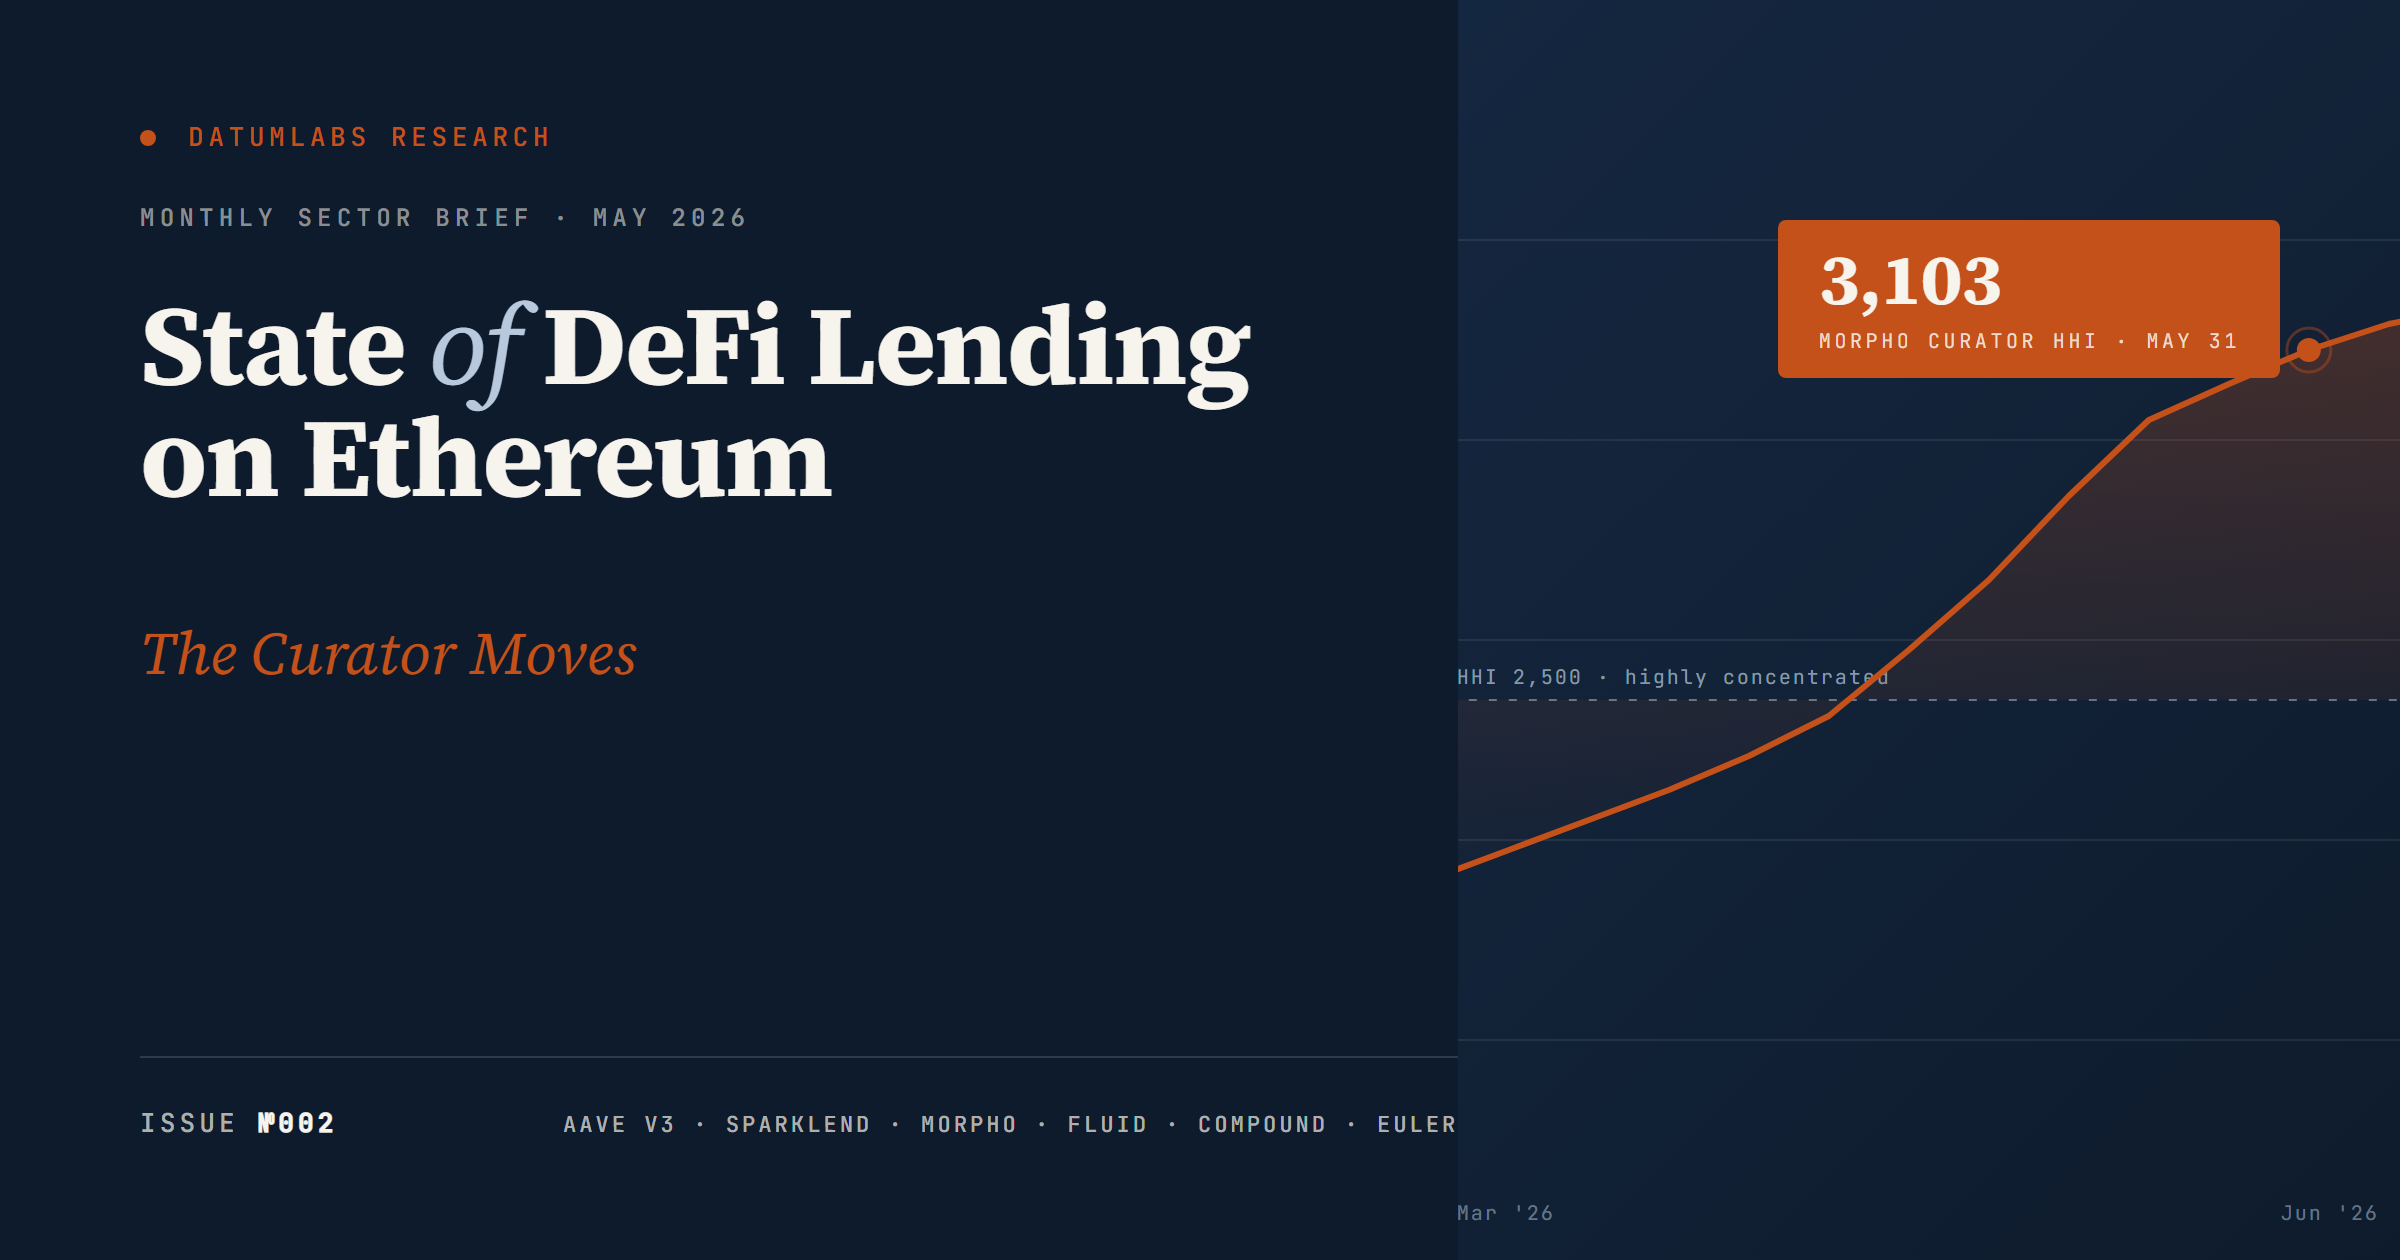
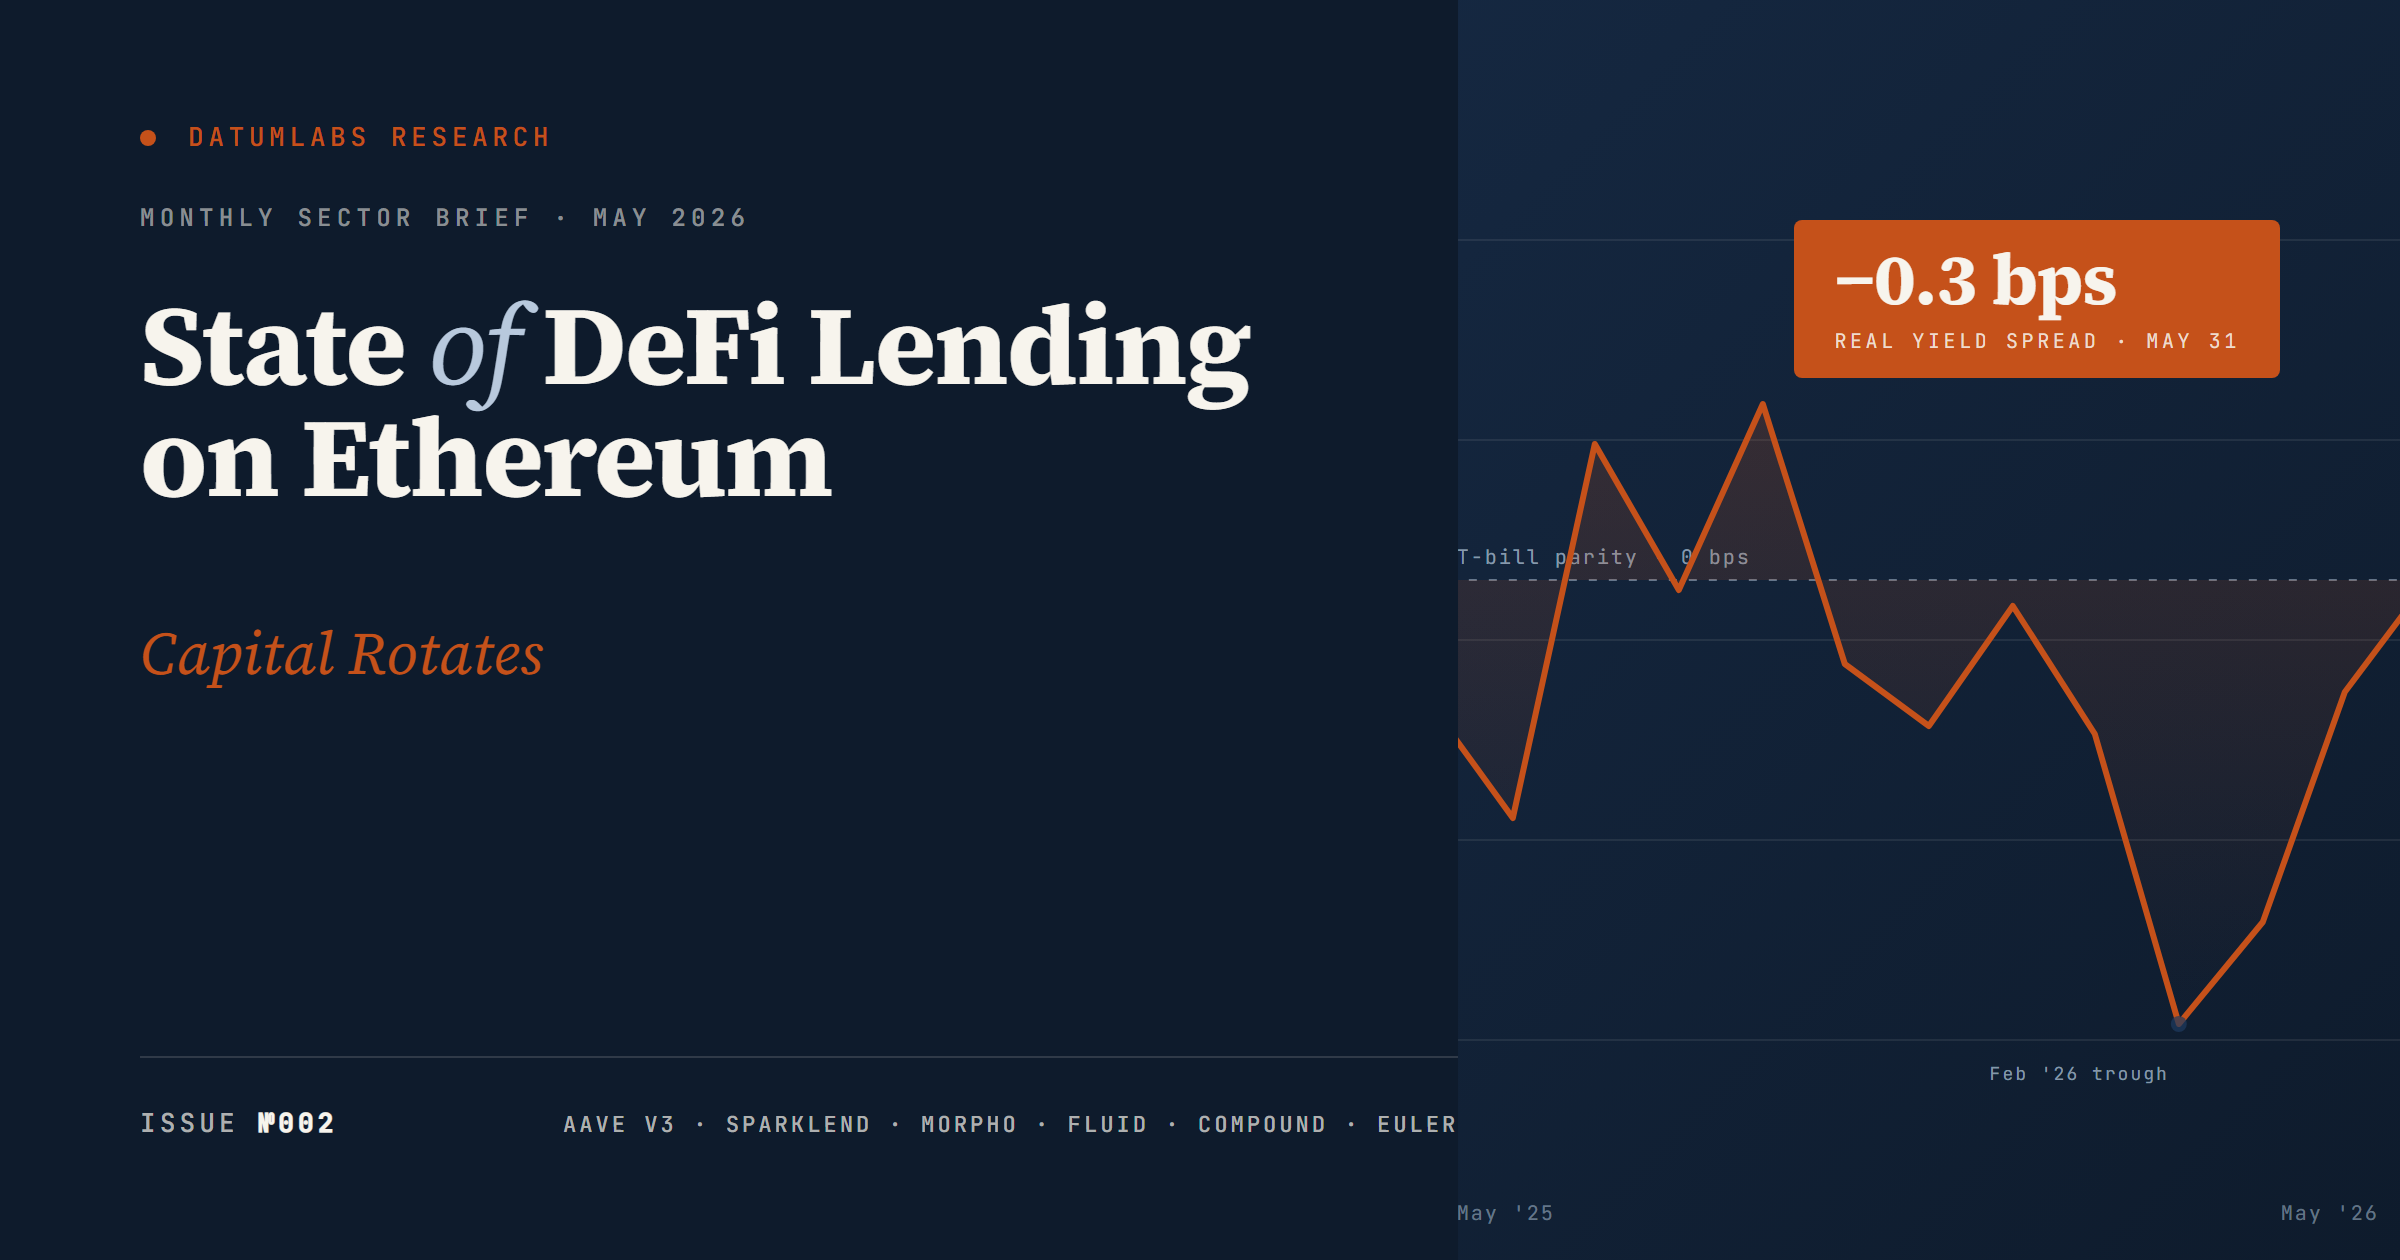
chore(report-002): re-render cover PNGs from Capital Rotates templates
Issue 002's five cover HTML templates (portrait, social, twitter,
linkedin, medium) were updated to the Capital Rotates framing earlier
in the round but the rendered PNGs in public/reports/ still carried
the prior wording. Re-runs npm run render-covers and commits the five
PNG outputs.

All five now read:
  Theme  · Capital Rotates
  Tagline · $1.6B LRT exit / $818M BTC inflow / $759M Morpho /
            stable parity for the first time in eight months

Also extends scripts/screenshot-issue-002-charts.ts to capture the
hero block and §02 Executive Summary lead in the same pre-publication
sanity-check pass.

diff --git a/content/reports/cover_2026-05-may_social.html b/content/reports/cover_2026-05-may_social.html
@@ -189,7 +189,7 @@
       </div>
       <div class="eyebrow">Monthly Sector Brief · May 2026</div>
       <h1 class="title">State <span class="of">of</span> DeFi Lending<br/>on Ethereum</h1>
-      <div class="subtitle">The Curator Moves</div>
+      <div class="subtitle">Capital Rotates</div>
     </div>
 
     <div class="bottom">
@@ -216,36 +216,36 @@
         <line x1="0" y1="520" x2="500" y2="520"/>
       </g>
 
-      <!-- HHI 2,500 threshold line -->
-      <line x1="0" y1="350" x2="500" y2="350" stroke="#B8C9DD" stroke-width="1" stroke-dasharray="4 6" opacity="0.5"/>
-      <text x="14" y="342" font-family="JetBrains Mono, monospace" font-size="10" fill="#B8C9DD" letter-spacing="1" opacity="0.7">HHI 2,500 · highly concentrated</text>
+      <!-- T-bill parity line at RYS = 0 (y ≈ 290 on a y-axis spanning −180 bps top of pos to +50 bps over the chart band) -->
+      <line x1="0" y1="290" x2="500" y2="290" stroke="#B8C9DD" stroke-width="1" stroke-dasharray="4 6" opacity="0.5"/>
+      <text x="14" y="282" font-family="JetBrains Mono, monospace" font-size="10" fill="#B8C9DD" letter-spacing="1" opacity="0.7">T-bill parity · 0 bps</text>
 
-      <!-- HHI trajectory: starting around 1,800 (pre-window) and rising past threshold through Mar 2,700 / Apr 3,026 / May 3,103 / Jun 3,290 -->
-      <!-- y mapping: 1,500 -> y=480; 3,500 -> y=120. So 1 HHI unit = -0.18 y -->
-      <!-- 1,800 -> y = 480 - (1800-1500)*0.18 = 480 - 54 = 426 -->
-      <!-- 2,500 -> y = 480 - 180 = 300 (close to threshold line at 350; ok for visual purposes) -->
-      <!-- 2,700 -> y = 480 - 216 = 264 -->
-      <!-- 3,026 -> y = 480 - 274.7 = 205.3 -->
-      <!-- 3,103 -> y = 480 - 288.5 = 191.5 -->
-      <!-- 3,290 -> y = 480 - 322.2 = 157.8 -->
-      <path d="M 0 440 L 40 425 L 80 410 L 120 395 L 160 378 L 200 358 L 240 325 L 280 290 L 320 248 L 360 210 L 400 192 L 440 175 L 480 162 L 500 158"
+      <!-- Real Yield Spread 12-month trajectory: May 2025 to May 2026 -->
+      <!-- y mapping: +50 bps → y=140; −180 bps → y=520; 1 bps = 380/230 ≈ 1.65 pixels -->
+      <!-- Series: May'25 −55 / Jun −90 / Jul +25 / Aug −20 / Sep +38 / Oct −42 / Nov −61 / Dec −8 / Jan'26 −63 / Feb −151 (trough) / Mar −119 / Apr −34 / May −0.3 (parity) -->
+      <!-- x step = 500/12 ≈ 41.7 -->
+      <path d="M 0 351 L 42 409 L 83 222 L 125 295 L 167 202 L 208 332 L 250 363 L 292 303 L 333 367 L 375 512 L 417 461 L 458 346 L 500 290"
             fill="none" stroke="#C5511A" stroke-width="3" stroke-linecap="round" stroke-linejoin="round"/>
-      <!-- Fill under the line, above threshold -->
-      <path d="M 0 440 L 40 425 L 80 410 L 120 395 L 160 378 L 200 358 L 240 325 L 280 290 L 320 248 L 360 210 L 400 192 L 440 175 L 480 162 L 500 158 L 500 350 L 0 350 Z"
-            fill="url(#fillGrad)" opacity="0.7"/>
+      <!-- Fill below the line down to the parity line -->
+      <path d="M 0 351 L 42 409 L 83 222 L 125 295 L 167 202 L 208 332 L 250 363 L 292 303 L 333 367 L 375 512 L 417 461 L 458 346 L 500 290 L 500 290 L 0 290 Z"
+            fill="url(#fillGrad)" opacity="0.5"/>
 
-      <!-- May 31 callout -->
-      <circle cx="440" cy="175" r="6" fill="#C5511A"/>
-      <circle cx="440" cy="175" r="11" fill="none" stroke="#C5511A" stroke-width="1.5" opacity="0.4"/>
+      <!-- May 31 callout: parity reading -->
+      <circle cx="500" cy="290" r="6" fill="#C5511A"/>
+      <circle cx="500" cy="290" r="11" fill="none" stroke="#C5511A" stroke-width="1.5" opacity="0.4"/>
+
+      <!-- Feb 2026 trough callout -->
+      <circle cx="375" cy="512" r="4" fill="#1F3A5F" opacity="0.7"/>
+      <text x="370" y="540" font-family="JetBrains Mono, monospace" font-size="9" fill="#B8C9DD" letter-spacing="1" opacity="0.7" text-anchor="end">Feb '26 trough</text>
 
       <!-- Axis labels -->
-      <text x="14" y="610" font-family="JetBrains Mono, monospace" font-size="10" fill="#B8C9DD" letter-spacing="1" opacity="0.5">Mar '26</text>
-      <text x="475" y="610" font-family="JetBrains Mono, monospace" font-size="10" fill="#B8C9DD" letter-spacing="1" opacity="0.5" text-anchor="end">Jun '26</text>
+      <text x="14" y="610" font-family="JetBrains Mono, monospace" font-size="10" fill="#B8C9DD" letter-spacing="1" opacity="0.5">May '25</text>
+      <text x="475" y="610" font-family="JetBrains Mono, monospace" font-size="10" fill="#B8C9DD" letter-spacing="1" opacity="0.5" text-anchor="end">May '26</text>
     </svg>
 
     <div class="annotation">
-      <div class="num">3,103</div>
-      <div class="label">Morpho Curator HHI · May 31</div>
+      <div class="num">−0.3 bps</div>
+      <div class="label">Real Yield Spread · May 31</div>
     </div>
   </div>
 </div>

diff --git a/content/reports/cover_2026-05-may_portrait.html b/content/reports/cover_2026-05-may_portrait.html
@@ -210,40 +210,37 @@
       </linearGradient>
     </defs>
 
-    <!-- Threshold line at HHI 2,500 (y = 190 on a y-axis spanning ~1,500–3,400) -->
-    <line x1="0" y1="190" x2="1080" y2="190" stroke="#1F3A5F" stroke-width="1" stroke-dasharray="6 5" opacity="0.45"/>
-    <text x="14" y="184" font-family="JetBrains Mono, monospace" font-size="11" fill="#1F3A5F" letter-spacing="1" opacity="0.7">HHI 2,500 · highly concentrated threshold</text>
+    <!-- T-bill parity line at RYS = 0 (y ≈ 61 on a y-axis spanning −180 bps to +50 bps over the 280px height) -->
+    <line x1="0" y1="61" x2="1080" y2="61" stroke="#1F3A5F" stroke-width="1" stroke-dasharray="6 5" opacity="0.45"/>
+    <text x="14" y="55" font-family="JetBrains Mono, monospace" font-size="11" fill="#1F3A5F" letter-spacing="1" opacity="0.7">T-bill parity · 0 bps</text>
 
-    <!-- HHI trajectory: starting around 1,800 (pre-window) and rising through Mar 2,700 / Apr 3,026 / May 3,103 / Jun 3,290 -->
-    <!-- y mapping: 1,500 -> y=240; 3,400 -> y=10. Slope: 1 HHI = -0.121 y -->
-    <!-- Mar 2,700 -> y = 240 - (2700-1500)*0.121 = 240 - 145.2 = 94.8 -->
-    <!-- Apr 3,026 -> y = 240 - 184.5 = 55.5 -->
-    <!-- May 3,103 -> y = 240 - 193.8 = 46.2 -->
-    <!-- Jun 3,290 -> y = 240 - 216.5 = 23.5 -->
-    <path d="M 0 220 L 90 215 L 180 205 L 270 195 L 360 170 L 450 130 L 540 110 L 630 95 L 720 75 L 810 56 L 900 46 L 990 32 L 1080 24"
+    <!-- Real Yield Spread 12-month trajectory: May 2025 to May 2026 -->
+    <!-- y mapping: +50 bps → y=0; −180 bps → y=280; 1 bps = 280/230 ≈ 1.22 pixels -->
+    <!-- Series: May'25 −55 / Jun −90 / Jul +25 / Aug −20 / Sep +38 / Oct −42 / Nov −61 / Dec −8 / Jan'26 −63 / Feb −151 (trough) / Mar −119 / Apr −34 / May −0.3 (parity) -->
+    <path d="M 0 128 L 90 171 L 180 31 L 270 85 L 360 15 L 450 112 L 540 135 L 630 71 L 720 138 L 810 245 L 900 206 L 990 102 L 1080 62"
           fill="none" stroke="#C5511A" stroke-width="2.5" stroke-linecap="round" stroke-linejoin="round"/>
-    <path d="M 0 220 L 90 215 L 180 205 L 270 195 L 360 170 L 450 130 L 540 110 L 630 95 L 720 75 L 810 56 L 900 46 L 990 32 L 1080 24 L 1080 280 L 0 280 Z"
+    <path d="M 0 128 L 90 171 L 180 31 L 270 85 L 360 15 L 450 112 L 540 135 L 630 71 L 720 138 L 810 245 L 900 206 L 990 102 L 1080 62 L 1080 280 L 0 280 Z"
           fill="url(#grad)"/>
 
-    <!-- Highlight May 31 reading -->
-    <circle cx="900" cy="46" r="5" fill="#C5511A"/>
-    <circle cx="900" cy="46" r="10" fill="none" stroke="#C5511A" stroke-width="1.5" opacity="0.4"/>
-    <text x="908" y="36" font-family="JetBrains Mono, monospace" font-size="11" fill="#0E1B2C" letter-spacing="1" font-weight="500">May 31 · 3,103</text>
+    <!-- February trough annotation -->
+    <line x1="810" y1="0" x2="810" y2="280" stroke="#1F3A5F" stroke-width="1" stroke-dasharray="4 4" opacity="0.4"/>
+    <text x="820" y="22" font-family="JetBrains Mono, monospace" font-size="11" fill="#1F3A5F" letter-spacing="1.5">Feb · trough −151 bps</text>
 
-    <!-- Sentora-move annotation around the late-April / May acceleration -->
-    <line x1="720" y1="0" x2="720" y2="280" stroke="#1F3A5F" stroke-width="1" stroke-dasharray="4 4" opacity="0.4"/>
-    <text x="730" y="22" font-family="JetBrains Mono, monospace" font-size="11" fill="#1F3A5F" letter-spacing="1.5">May · Sentora reallocates</text>
+    <!-- May 31 callout: parity reading -->
+    <circle cx="1080" cy="62" r="5" fill="#C5511A"/>
+    <circle cx="1080" cy="62" r="10" fill="none" stroke="#C5511A" stroke-width="1.5" opacity="0.4"/>
+    <text x="1020" y="48" font-family="JetBrains Mono, monospace" font-size="11" fill="#0E1B2C" letter-spacing="1" font-weight="500" text-anchor="end">May 31 · parity</text>
   </svg>
 
   <div class="title-block">
     <div class="eyebrow">Monthly Sector Brief</div>
     <h1 class="title">State <span class="of">of</span> DeFi Lending<br/>on Ethereum</h1>
     <div class="divider"></div>
-    <div class="subtitle">The Curator Moves</div>
+    <div class="subtitle">Capital Rotates</div>
   </div>
 
   <div class="tagline">
-    How a single curator's cross-protocol reallocation reshaped two lending protocols in thirty days, while the sector's stablecoin yield closed at parity with T-bills for the first time in eight months and the sector's annualized revenue yield fell below the risk-free rate.
+    How $1.6 billion of LRT collateral exited Ethereum lending while $818 million of BTC-family collateral arrived in its place, Morpho absorbed the sector's largest absolute depositor inflow at $759 million, and stablecoin yields closed at parity with T-bills for the first time in eight months.
   </div>
 
   <div class="footer">

diff --git a/scripts/screenshot-issue-002-charts.ts b/scripts/screenshot-issue-002-charts.ts
@@ -11,7 +11,8 @@
 import path from "node:path"
 import { promises as fs } from "node:fs"
 
-const ANCHORS: Array<{ id: string; slug: string; label: string }> = [
+interface ChartAnchor { id: string; slug: string; label: string }
+const ANCHORS: ChartAnchor[] = [
   { id: "chart-rates-rys-trajectory-12m",            slug: "01-rys-trajectory",       label: "Chart 1 · Real Yield Spread 12-month" },
   { id: "chart-sector-net-flows-by-protocol-may",    slug: "02-sector-net-flows",     label: "Chart 2 · Sector net flows by protocol" },
   { id: "chart-sector-collateral-rotation-lrt-vs-btc", slug: "03-collateral-rotation", label: "Chart 3 · LRT vs BTC collateral rotation" },
@@ -46,6 +47,31 @@ async function main() {
   await page.goto(url, { waitUntil: "domcontentloaded", timeout: 90_000 })
   // Wait a beat for Recharts ResponsiveContainer to size itself.
   await page.waitForTimeout(3000)
+
+  // Full-page hero/cover capture (top viewport).
+  await page.evaluate(() => window.scrollTo(0, 0))
+  await page.waitForTimeout(400)
+  const heroPath = path.join(outDir, "00-hero-cover.png")
+  await page.screenshot({ path: heroPath, fullPage: false })
+  console.log(`[screenshot] Hero (above the fold) → ${heroPath}`)
+
+  // §02 Executive Summary — grab the SectionHeading + lead + first prose
+  // block and the first PullQuote underneath it.
+  const sectionTwo = await page.$('h2:has-text("Executive Summary")')
+  if (sectionTwo) {
+    // Build a clipping box from the heading through the chart that follows.
+    const box = await sectionTwo.boundingBox()
+    if (box) {
+      await page.evaluate((y) => window.scrollTo(0, Math.max(0, y - 60)), box.y)
+      await page.waitForTimeout(400)
+      const exSumPath = path.join(outDir, "00-section-02-exec-summary.png")
+      // Capture the viewport at the new scroll position.
+      await page.screenshot({ path: exSumPath, fullPage: false })
+      console.log(`[screenshot] §02 Executive Summary lead → ${exSumPath}`)
+    }
+  } else {
+    console.warn(`[screenshot] §02 heading not found`)
+  }
 
   let captured = 0
   for (const a of ANCHORS) {

diff --git a/content/reports/cover_2026-05-may_linkedin.html b/content/reports/cover_2026-05-may_linkedin.html
@@ -204,11 +204,12 @@
 
       <div class="centre">
         <div class="kicker"><span class="swatch"></span>State of DeFi Lending on Ethereum</div>
-        <h1>The Curator<br><span class="italic">Moves</span></h1>
+        <h1>Capital<br><span class="italic">Rotates</span></h1>
         <p class="subtitle">
-          Sentora moved <b>$128M of depositor capital between Euler and Morpho</b>.
-          The Morpho curator HHI rose to <b>3,103</b>. The sector's stablecoin yield closed
-          at parity with T-bills.
+          <b>$1.6B</b> of LRT collateral exited Ethereum lending while <b>$818M</b> of BTC-family
+          collateral arrived in its place. Morpho absorbed the sector's largest absolute
+          depositor inflow at <b>$759M</b>. Stablecoin yields closed at parity with T-bills
+          for the first time in eight months.
         </p>
       </div>
 

diff --git a/content/reports/cover_2026-05-may_medium.html b/content/reports/cover_2026-05-may_medium.html
@@ -204,11 +204,12 @@
 
       <div class="centre">
         <div class="kicker"><span class="swatch"></span>State of DeFi Lending on Ethereum</div>
-        <h1>The Curator<br><span class="italic">Moves</span></h1>
+        <h1>Capital<br><span class="italic">Rotates</span></h1>
         <p class="subtitle">
-          Sentora moved <b>$128M of depositor capital between Euler and Morpho</b>.
-          The Morpho curator HHI rose to <b>3,103</b>. The sector's stablecoin yield closed
-          at parity with T-bills for the first time in eight months.
+          <b>$1.6B</b> of LRT collateral exited Ethereum lending while <b>$818M</b> of BTC-family
+          collateral arrived in its place. Morpho absorbed the sector's largest absolute
+          depositor inflow at <b>$759M</b>. Stablecoin yields closed at parity with T-bills
+          for the first time in eight months.
         </p>
       </div>
 

diff --git a/content/reports/cover_2026-05-may_twitter.html b/content/reports/cover_2026-05-may_twitter.html
@@ -220,11 +220,12 @@
 
       <div class="centre">
         <div class="kicker"><span class="swatch"></span>State of DeFi Lending on Ethereum</div>
-        <h1>The Curator<br><span class="italic">Moves</span></h1>
+        <h1>Capital<br><span class="italic">Rotates</span></h1>
         <p class="subtitle">
-          Sentora moved <b>$128M of depositor capital between Euler and Morpho</b>.
-          The Morpho curator HHI rose to <b>3,103</b>. The sector's stablecoin yield closed
-          at parity with T-bills for the first time in eight months.
+          <b>$1.6B</b> of LRT collateral exited Ethereum lending while <b>$818M</b> of BTC-family
+          collateral arrived in its place. Morpho absorbed the sector's largest absolute
+          depositor inflow at <b>$759M</b>. Stablecoin yields closed at parity with T-bills
+          for the first time in eight months.
         </p>
       </div>
 